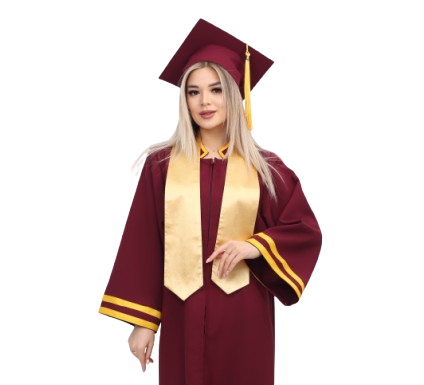
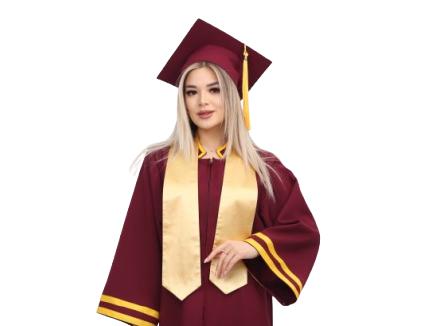
robes

Changed region(s): [[0.2156, 0.0307, 0.7701, 1.0]]

diff --git a/src/components/Catalog.jsx b/src/components/Catalog.jsx
@@ -4,25 +4,25 @@ function Catalog() {
     const robes = [
         {
             image: 'blue_with_yellow.png',
-            title: 'Синяя с желтой полоской',
+            title: 'Синяя с золотой полоской',
             description: 'Премиальная модель с аккуратной декоративной отделкой.',
             price: '500 сом / день'
         },
         {
             image: 'dark_blue_with_s_yellow.png',
-            title: 'Тёмно синяя с жёлтым тонкая полоска',
+            title: 'Тёмно-синяя с тонкими золотыми полосками',
             description: 'Элегантная черная мантия с золотой отделкой.',
             price: '500 сом / день'
         },
         {
             image: 'dark_blue_with_b_yellow.png',
-            title: 'Тёмно синяя с жёлтым широкая полоска',
+            title: 'Тёмно синяя с широкими золотыми полосками',
             description: 'Стильная мантия с яркой красной отделкой.',
             price: '500 сом / день'
         },
         {
             image: 'dark_blue_with_yellow.png',
-            title: 'Темно синяя c желтым',
+            title: 'Темно синяя c желтыми полосками',
             description: 'Классическая мантия с синей отделкой.',
             price: '500 сом / день'
         },
@@ -35,6 +35,12 @@ function Catalog() {
         {
             image: 'blue_elegant_with_white.png',
             title: 'Синий элегант с белым',
+            description: 'Минималистичная черная мантия для выпускного.',
+            price: '500 сом / день'
+        },
+        {
+            image: 'dark_blue_with_grey.png',
+            title: 'Темно синий с серым',
             description: 'Минималистичная черная мантия для выпускного.',
             price: '500 сом / день'
         },
@@ -75,37 +81,31 @@ function Catalog() {
             price: '500 сом / день'
         },
         {
-            image: 'mantiya10.png',
+            image: 'black_with_pink.png',
             title: 'Черная с розовым',
             description: 'Премиальная модель с аккуратной декоративной отделкой.',
             price: '500 сом / день'
         },
         {
-            image: 'mantiya11.png',
+            image: 'black_with_red.png',
             title: 'Черная с красным',
             description: 'Премиальная модель с аккуратной декоративной отделкой.',
             price: '500 сом / день'
         },
         {
-            image: 'mantiya12.png',
+            image: 'black_with_white.png',
             title: 'Черная с белым',
             description: 'Премиальная модель с аккуратной декоративной отделкой.',
             price: '500 сом / день'
         },
         {
-            image: 'mantiya13.png',
-            title: 'Черная с желтым',
-            description: 'Премиальная модель с аккуратной декоративной отделкой.',
-            price: '500 сом / день'
-        },
-        {
-            image: 'mantiya14.png',
+            image: 'black_with_purple.png',
             title: 'Черная с фиолетовым',
             description: 'Премиальная модель с аккуратной декоративной отделкой.',
             price: '500 сом / день'
         },
         {
-            image: 'mantiya15.png',
+            image: 'black_with_green.png',
             title: 'Черная с зеленым',
             description: 'Премиальная модель с аккуратной декоративной отделкой.',
             price: '500 сом / день'
